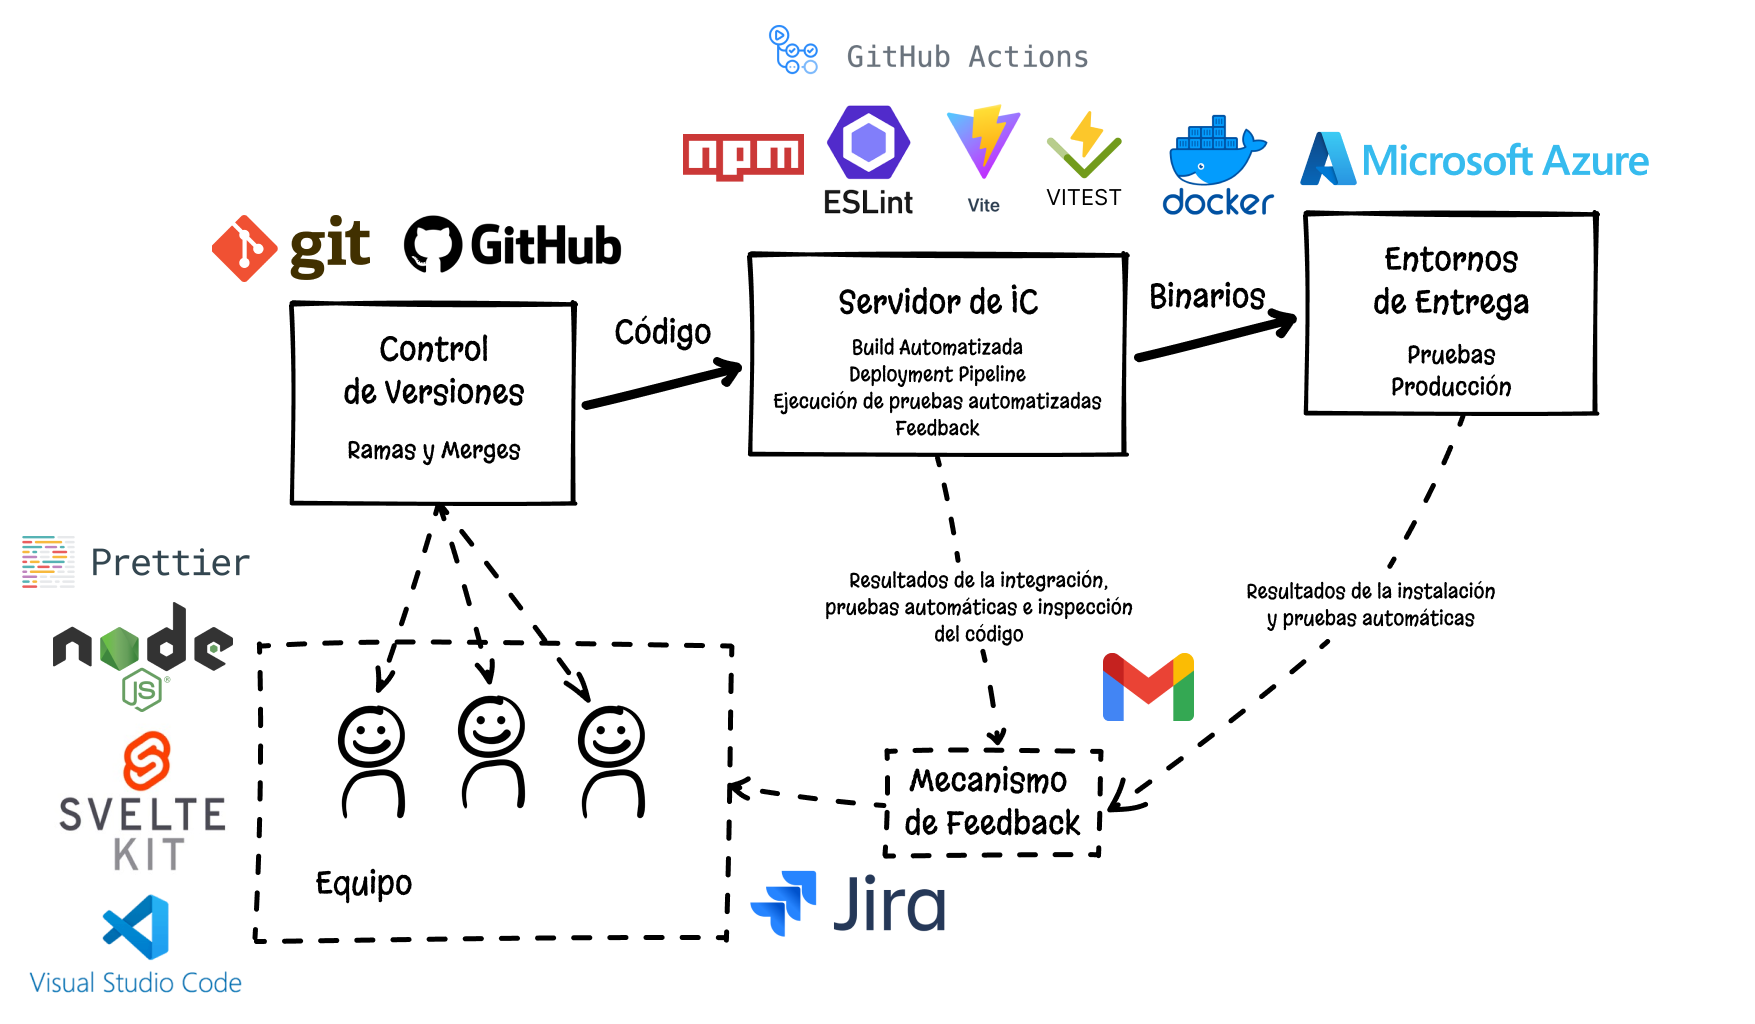
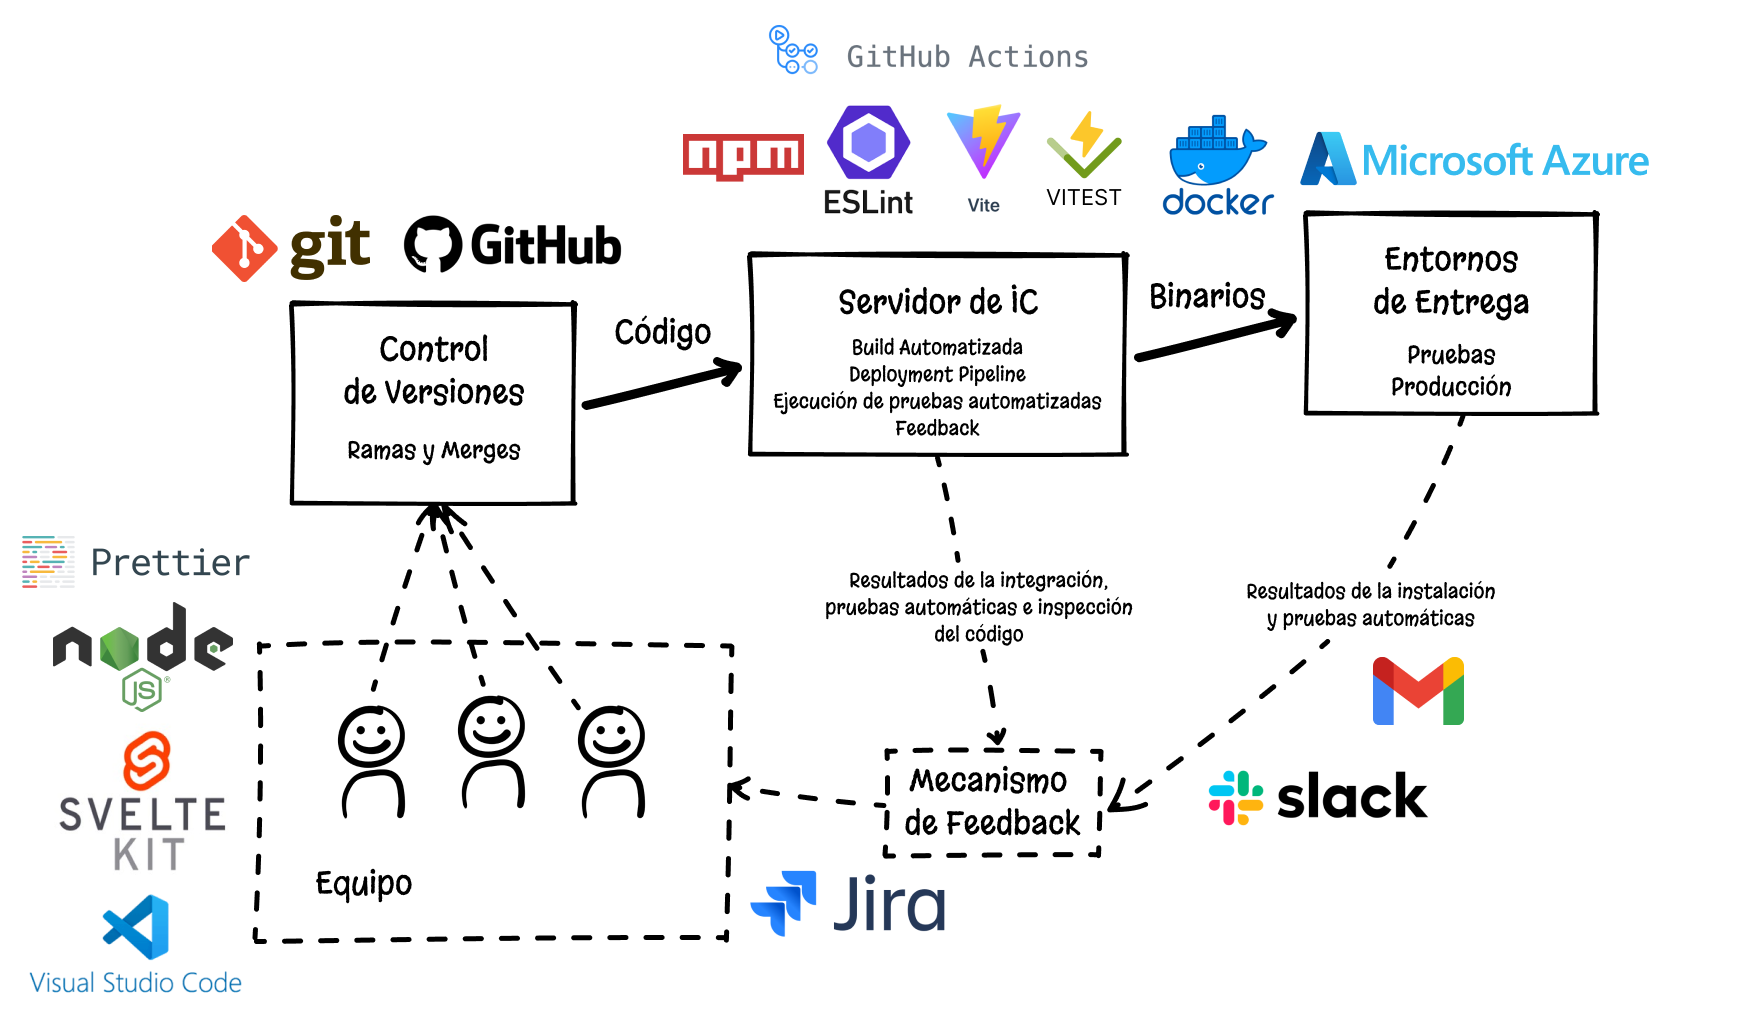
RP-10 Integración con Slack (#1)
* probando integración con slack

* eliminado filtro por ramas del pull request trigger de la GH Action

* restaurado filtro por ramas del pull request trigger de la GH Action

* ahora el trigger es en cada pull request

* enombrado GH Action a 'Integration'

* reintento de notificación a slack

* probando otra GH Action

* error intencional para que falle la pipeline

* otro error de linter

* paso feedback ahora depende de todos

* eliminada variable SLACK_COLOR del paso Slack Notification

* SLACK_STATUS ahora se calcula dependiendo del estado de todos los jobs

* todo este tiempo se llamaba SLACK_COLOR y no SLACK_STATUS...

* RP-10 integración de GitHub Actions con Slack funciona correctamente

diff --git a/src/lib/components/Picker.svelte b/src/lib/components/Picker.svelte
@@ -10,7 +10,8 @@
 	/** @param {string[]} list */
 	function pickAtRandom(list) {
 		const rand = Math.floor(Math.random() * list.length);
-		return list.at(rand) ?? "";
+		const selected = list.at(rand) ?? "";
+		return selected;
 	}
 
 	function handlePick() {

diff --git a/README.md b/README.md
@@ -22,14 +22,15 @@ La pipeline se dispara al hacer un commit o pull request a la rama `main` y tien
 2. **Preparar node:** instala `node` (entorno de ejecución de JavaScript) y `npm` (gestor de paquetes de NodeJS) para poder ejecutar el código.
 3. **Instalar dependencias:** ejecuta `npm install` para descargar todas las dependencias del proyecto estipuladas en el `package.json`.
 4. **Inspección de código:** `ESLint` inspecciona el código para verificar que se cumplan sus reglas, mejorando la calidad. También se verifica que se cumpla la guía de estilos de código configurada con `Prettier`.
-5. **Construcción:** `Vite` construye la aplicación, compilando de `Svelte` a JavaScript, minimizando el JavaScript generado y dividiéndolo en chunks. Se hace solo para verificar que el proyecto compila correctamente.
-6. **Pruebas automáticas:** `Vitest` es el _test runner_ que ejecuta las pruebas unitarias y de componente. Se utiliza `jsdom` como enorno (minimalista) de navegador.
+5. **Pruebas automáticas:** `Vitest` es el _test runner_ que ejecuta las pruebas unitarias y de componente. Se utiliza `jsdom` como enorno (minimalista) de navegador.
+6. **Construcción:** `Vite` construye la aplicación, compilando de `Svelte` a JavaScript, minimizando el JavaScript generado y dividiéndolo en chunks. Se hace solo para verificar que el proyecto compila correctamente, ya que no es necesaria una build para los pasos previos, y se la vuelve a construir dentro de la imagen de Docker.
 7. **Containerización:** se construye una imagen de `Docker` (definida en el archivo `Dockerfile`) que empaqueta la aplicación para luego ser deployada en cualquier entorno que pueda correr containers. Esa imagen es almacenada en el container registry de _GitHub Packages_.
 8. **Despliegue:** se envía a _Microsoft Azure Web App_ el nombre de la nueva imagen a deployar. Azure se encarga de descargar esa imagen de GitHub Packages y luego migra el deployment a la nueva versión.
+9. **Feedback:** se integra la pipeline con una _Slack App_ para recibir un mensaje automático que indique el resultado final de la run. Tener un canal de Slack dedicado a estos mensajes es mucho más cómodo que recibir un email por cada ejecución del workflow.
 
 Algunos instantes luego de haber finalizado la ejecución de la pipeline, se debería poder ver la nueva versión desplegada en https://randpipe.azurewebsites.net/. Nota: el link estará desactualizado una vez terminado y presentado el proyecto, o cuando el deployment sea eliminado de Microsoft Azure.
 
-### Trazabilidad y Feedback
+### Trazabilidad
 
 Se utilizó **Jira** para la planificación del trabajo y gestión de tareas. Este repositorio de GitHub está configurado para que los commits que en su descripción incluyan un código `RP-<num>` tengan embebido en ese código un hipervínculo hacia su tarea asociada en Jira con ese número identificador.
 
@@ -37,4 +38,4 @@ También se puede ver desde Jira los commits asociados a las tareas, de manera q
 
 ![Tarea de Jira con un commit asociado](docs/commit-en-jira.png)
 
-Como principal mecanismo de feedback y notificaciones, este repositorio está configurado para que un **correo electrónico** sea enviado cada vez que una _GitHub Action_ termina. Ese correo menciona el estado final de la pipeline.
+Como principal mecanismo de notificaciones, se tiene un workspace de **Slack** configurado para recibir (en un canal específico) un mensaje cada vez que una ejecución de la pipeline termina. Ese mensaje indica el estado final de la ejecución y provee links al repositorio.
